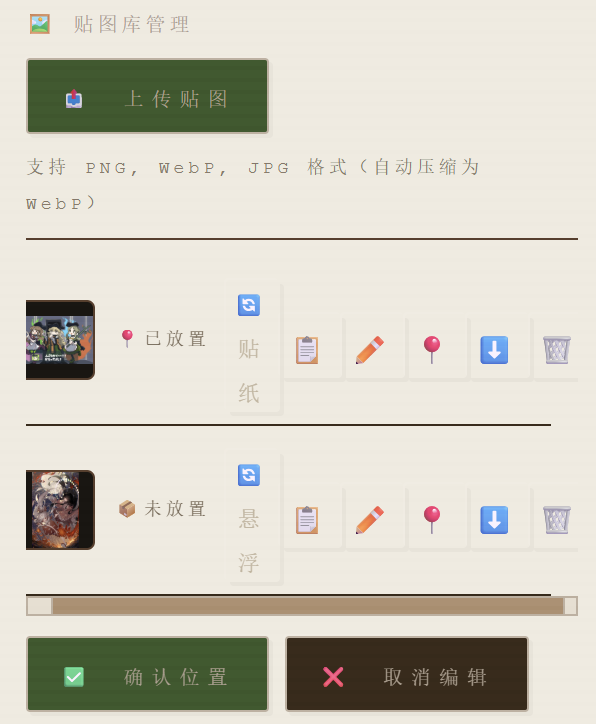
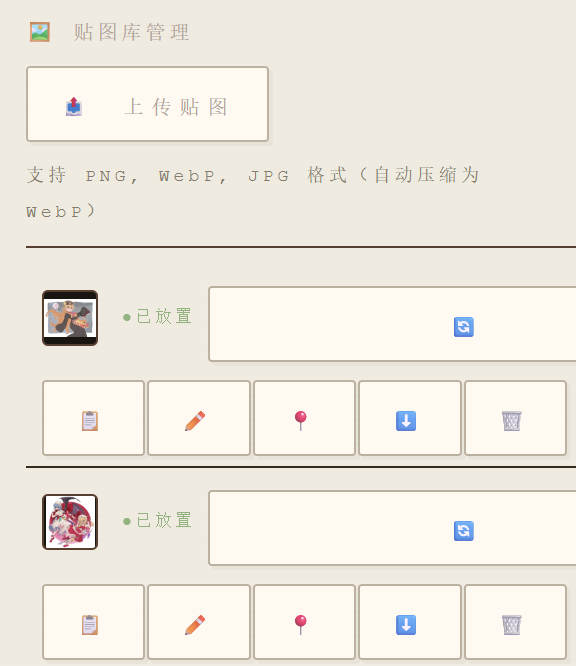
docs: 统一 README 截图尺寸并增加移动端自适应
-更换截图为之前美化过的界面的截图
- 将 Markdown 图片表格迁移为 HTML 表格结构
- 统一截图显示宽度为 400px
- 增加 max-width:100% 支持移动端自适应
- 添加 alt 文本提升可访问性

diff --git a/README.md b/README.md
@@ -6,19 +6,48 @@
 
 ---
 
-## 预览
+<!-- ===== 预览 ===== -->
+<h2>预览</h2>
 
-| 主题 | 截图 |
-|------|------|
-| 暗色 | ![暗色](images/screenshots/dark.png) |
-| 亮色 | ![亮色](images/screenshots/light.png) |
-| 低保真 | ![低保真](images/screenshots/lofi.png) |
+<h3>主题</h3>
+<table>
+  <tr>
+    <th align="center">主题</th>
+    <th align="center">截图</th>
+  </tr>
+  <tr>
+    <td align="center">暗色</td>
+    <td align="center"><img src="images/screenshots/dark.png" width="400" style="max-width:100%; height:auto;" alt="暗色主题"></td>
+  </tr>
+  <tr>
+    <td align="center">亮色</td>
+    <td align="center"><img src="images/screenshots/light.png" width="400" style="max-width:100%; height:auto;" alt="亮色主题"></td>
+  </tr>
+  <tr>
+    <td align="center">低保真</td>
+    <td align="center"><img src="images/screenshots/lofi.png" width="400" style="max-width:100%; height:auto;" alt="低保真主题"></td>
+  </tr>
+</table>
 
-| 功能 | 截图 |
-|------|------|
-| 目录树 | ![目录树](images/screenshots/tree.png) |
-| 贴纸系统 | ![贴纸系统](images/screenshots/deco.png) |
-| 移动端 | ![移动端](images/screenshots/mobile.png) |
+<h3>功能</h3>
+<table>
+  <tr>
+    <th align="center">功能</th>
+    <th align="center">截图</th>
+  </tr>
+  <tr>
+    <td align="center">目录树</td>
+    <td align="center"><img src="images/screenshots/tree.png" width="400" style="max-width:100%; height:auto;" alt="目录树"></td>
+  </tr>
+  <tr>
+    <td align="center">贴纸系统</td>
+    <td align="center"><img src="images/screenshots/deco.png" width="400" style="max-width:100%; height:auto;" alt="贴纸系统"></td>
+  </tr>
+  <tr>
+    <td align="center">移动端</td>
+    <td align="center"><img src="images/screenshots/mobile.png" width="400" style="max-width:100%; height:auto;" alt="移动端"></td>
+  </tr>
+</table>
 
 ---
 
